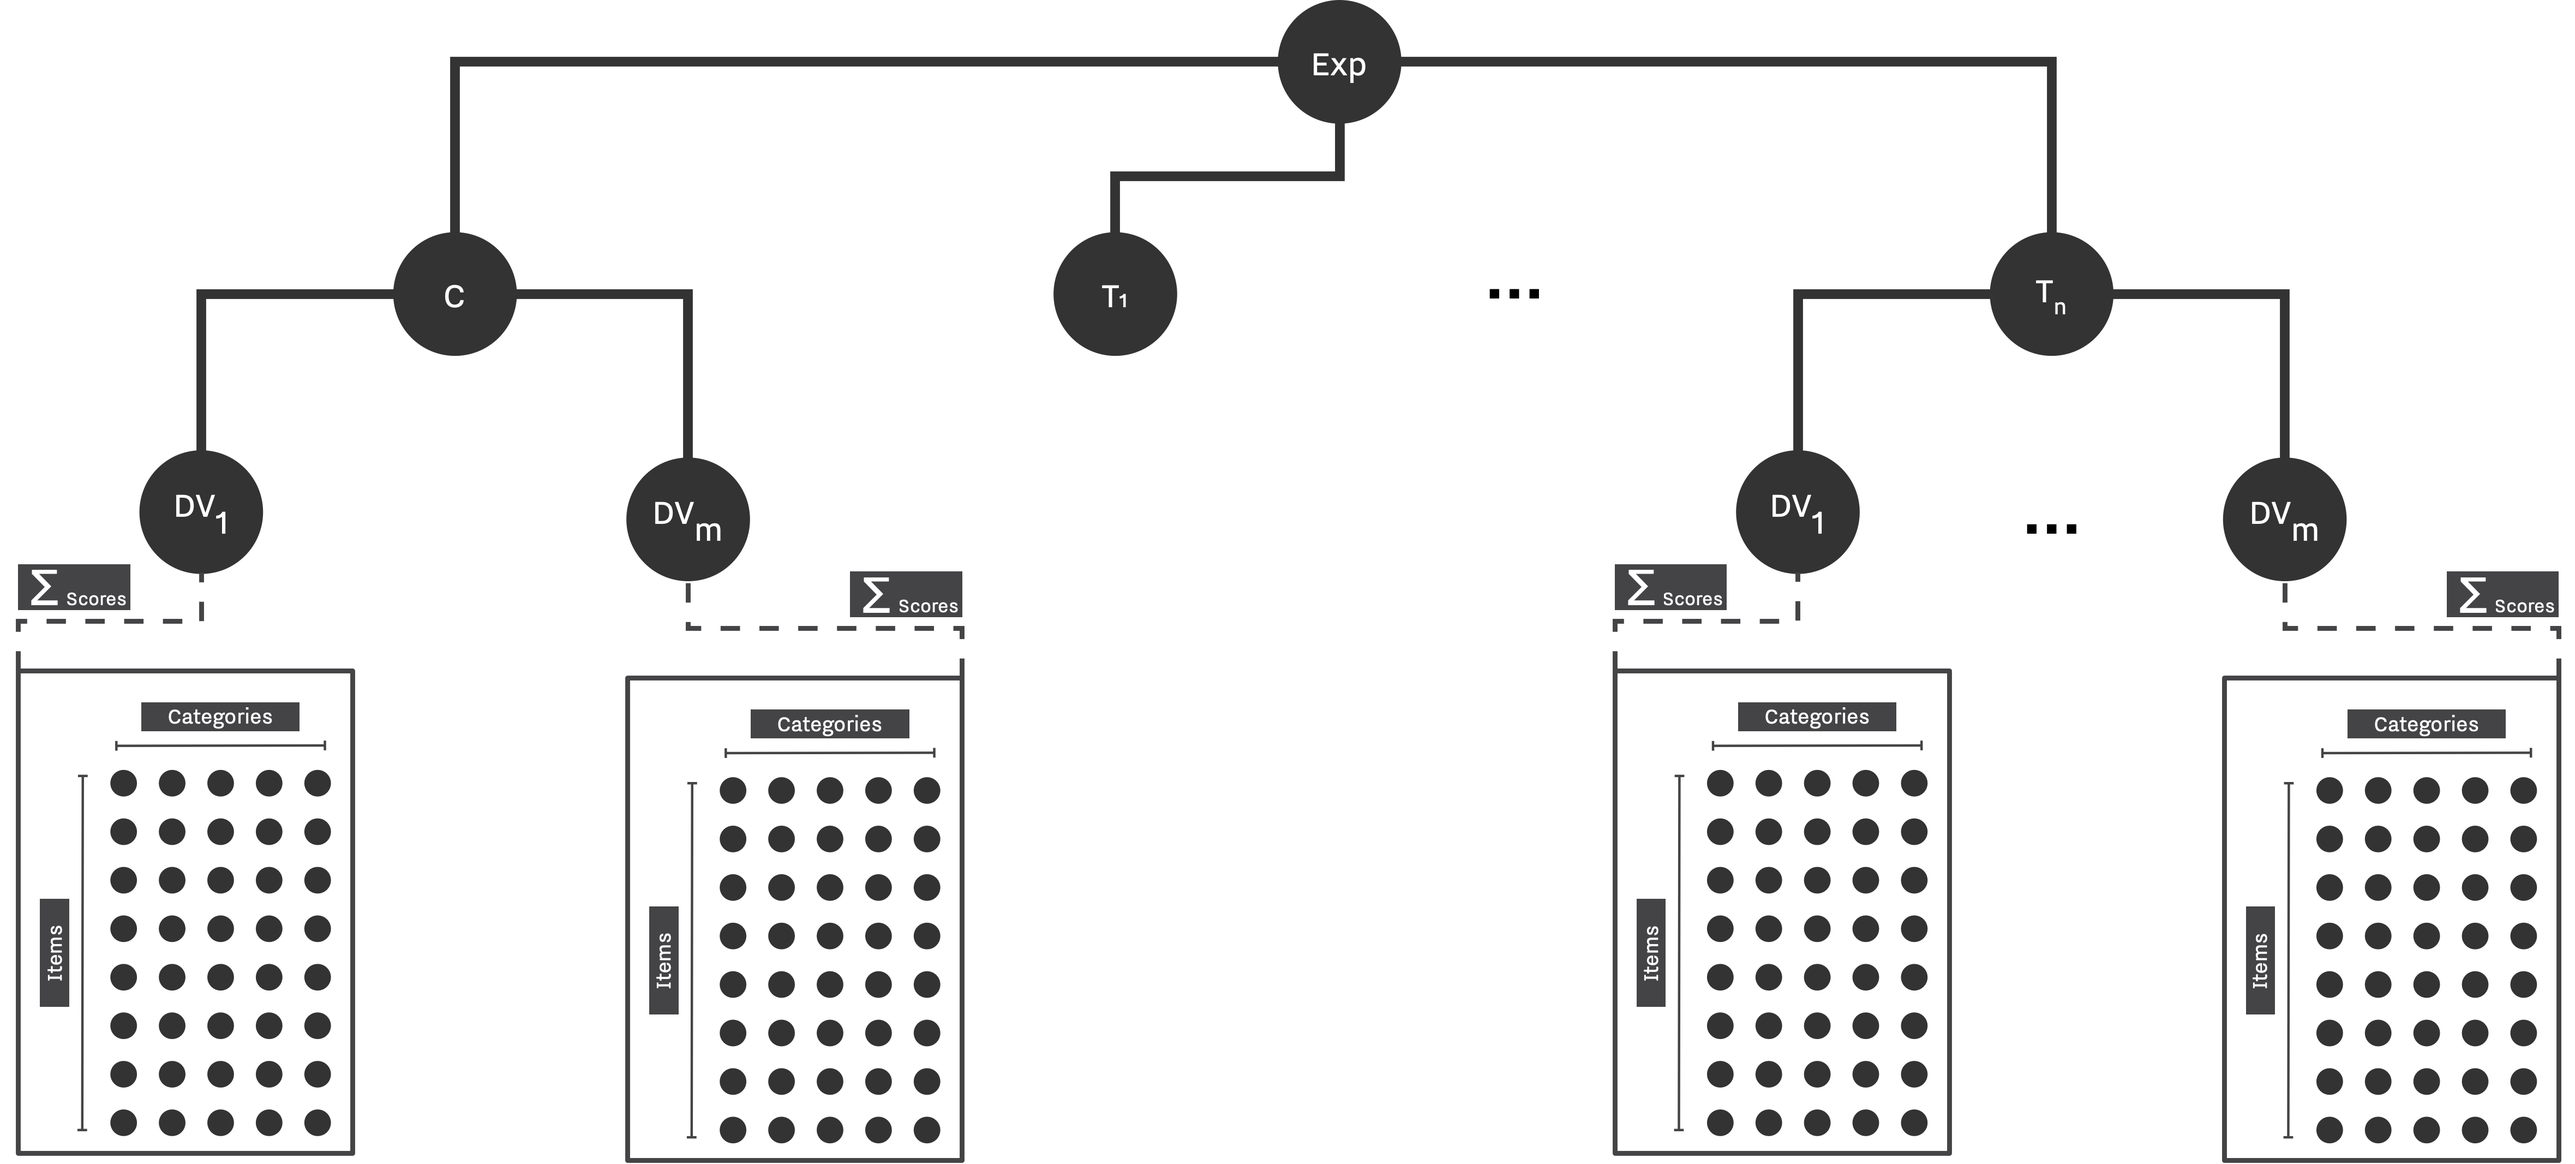
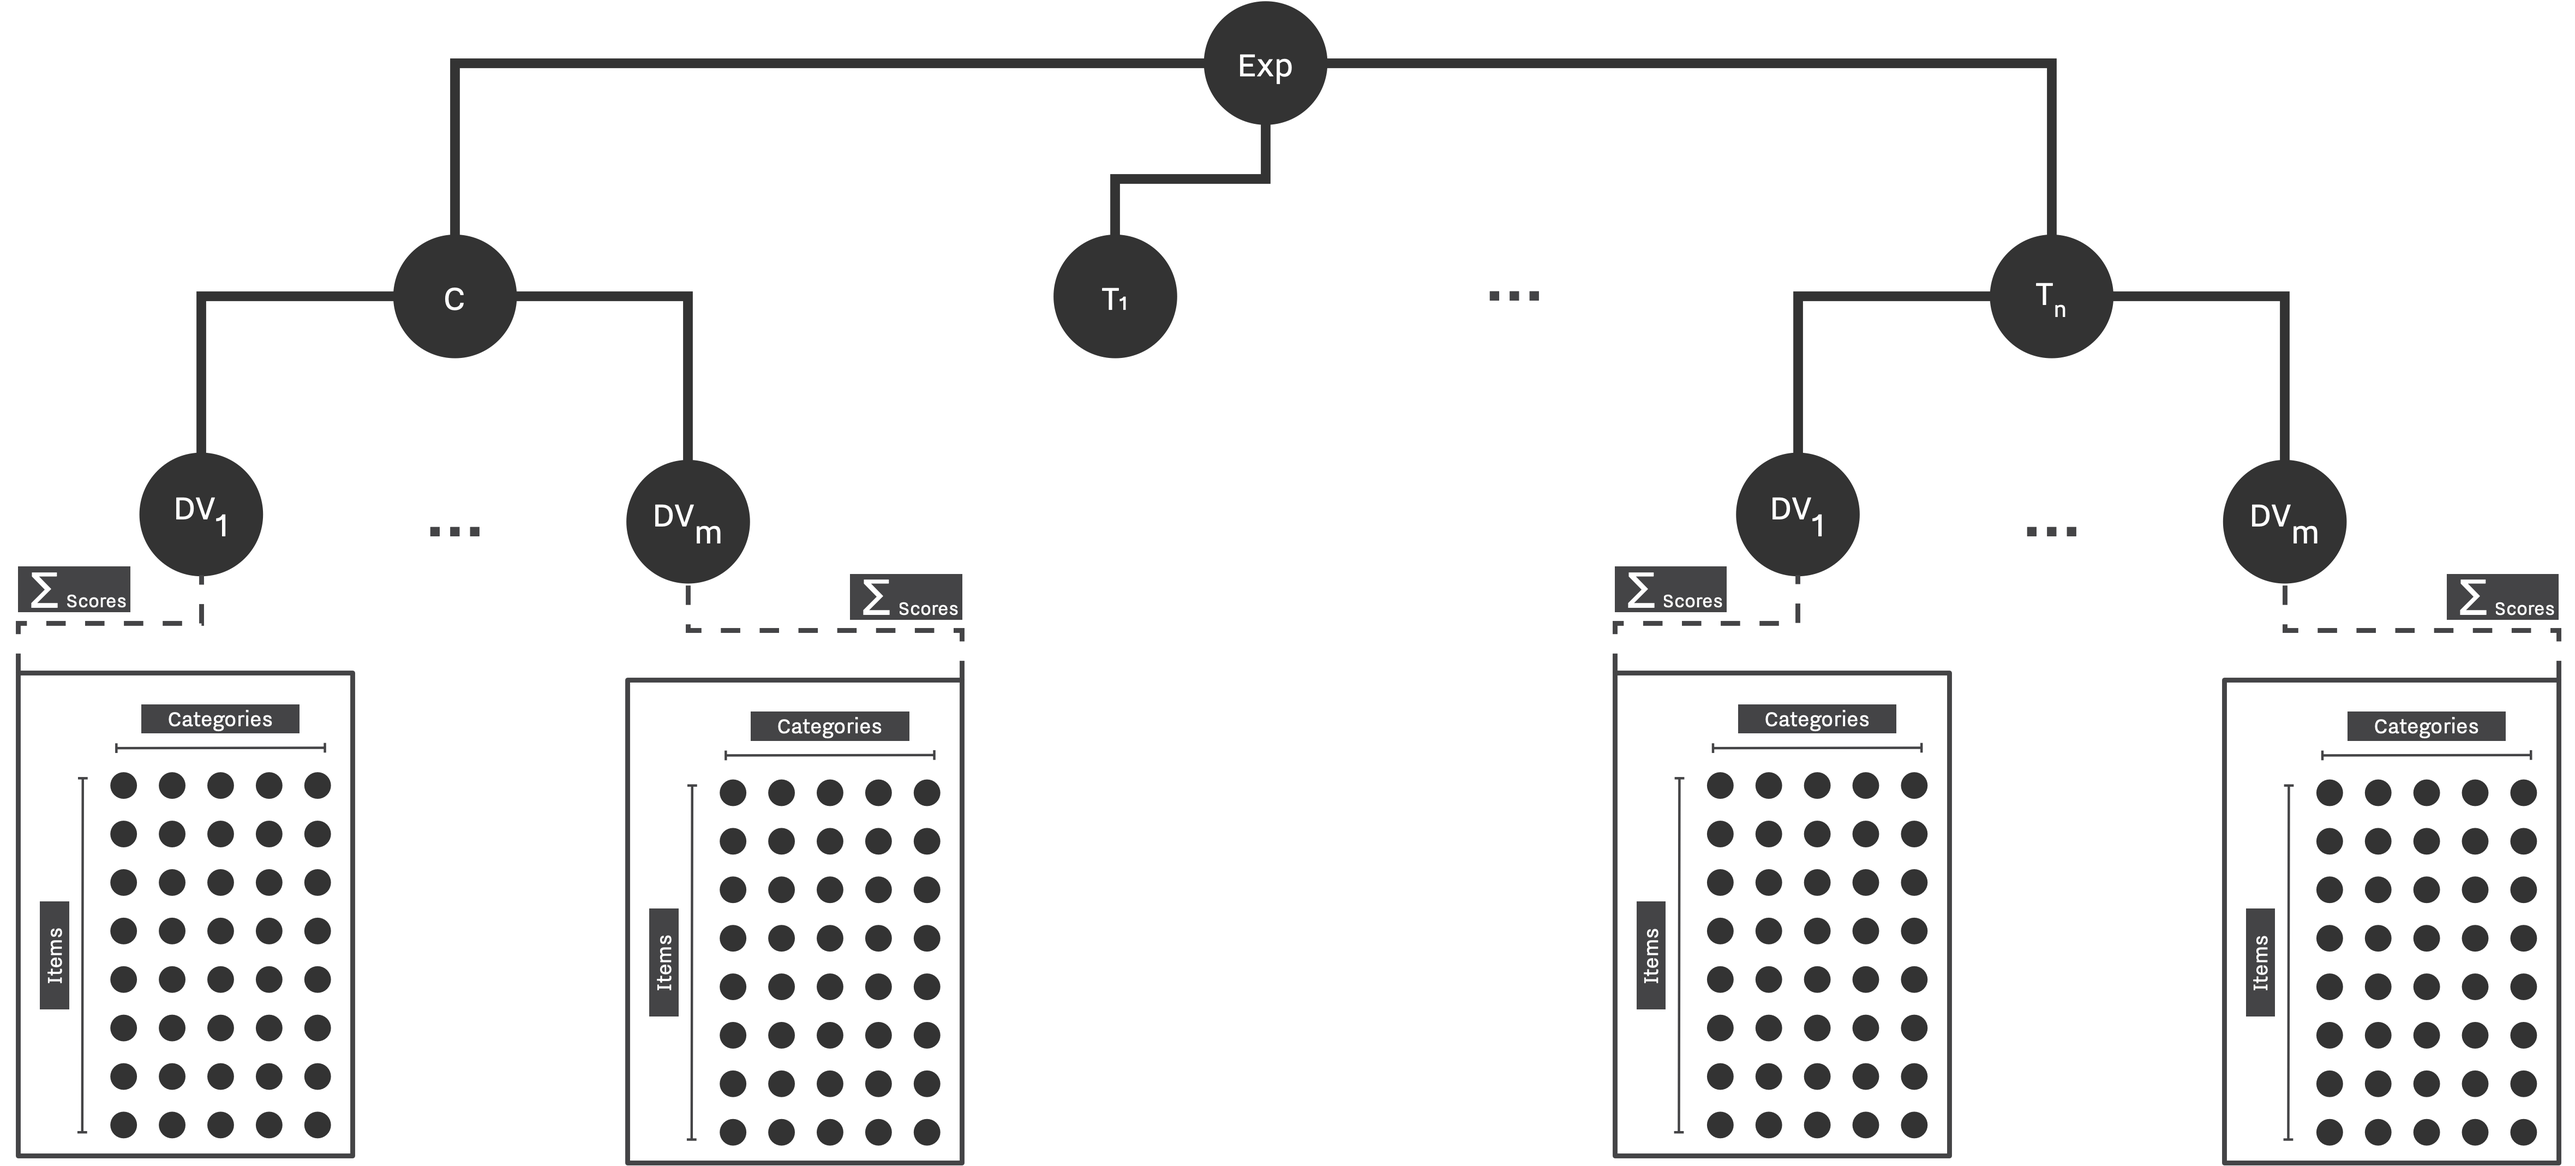
updating a few figures, and adding info for Falsifying and Fabricating Data

diff --git a/docs/custom.css b/docs/custom.css
@@ -38,9 +38,9 @@ blockquote {
   font-size: 98%;
 }
 
-/*.md-typeset__table {
+.md-typeset__table {
   box-sizing: content-box;
-}*/
+}
 
 /*.md-typeset table:not([class]), .md-typeset__table {
   display: block;
@@ -96,8 +96,8 @@ blockquote {
 .md-typeset .experiment > .admonition-title::before,
 .md-typeset .experiment > summary::before {
   background-color: rgba(0, 122, 255, 1.00);
-  -webkit-mask-image: var(--md-admonition-icon--researcher);
-          mask-image: var(--md-admonition-icon--researcher);
+  -webkit-mask-image: var(--md-admonition-icon--datastrategy);
+          mask-image: var(--md-admonition-icon--datastrategy);
 }
 
 

diff --git a/docs/data-strategies.md b/docs/data-strategies.md
@@ -5,10 +5,10 @@
 ## Study Design
 
 <picture>
-  <img src="/figures/experiment-design.png" width="50%" align="right">
+  <img src="/figures/Data_Strategy_Linear_Model.png" width="50%" align="right">
 </picture>
 
-Parameters of Data Strategy are intertwined with experiment design parameters. Before defining the model, we need to specify the structure of our design, number of observations in each group, and [number of replications](/decision-strategies.md#post-qrp-decision-and-replication-stage) if applicable. Study design is being detemrined by setting the number of treatment conditions, *n* (`n_conditions`) and the number of dependent variables in each condition, *d* (`n_dep_vars`). After specifying our design, each group is being populated by `n_obs` observations based on the given model, specified in `data_strategy`. 
+Parameters of Data Strategy are intertwined with experiment design parameters. Before defining the model, we need to specify the structure of our design, number of observations in each group, and [number of replications](/decision-strategies.md#post-qrp-decision-and-replication-stage) if applicable. Study design is being detemrined by setting the number of treatment conditions, *n* (`n_conditions`) and the number of dependent variables in each condition, *m* (`n_dep_vars`). After specifying our design, each group is being populated by `n_obs` observations based on the given model, specified in `data_strategy`. 
 
 ```json hl_lines="3 4 5 6"
 {
@@ -42,7 +42,7 @@ We can configure the type and specifications of the model using `data_strategy` 
 
 ## Linear Model
 
-In the case of Linear Model, SAM models $\bar{y} = \bar{x} + \bar{\epsilon}$ where $\bar{x}$ and $\bar{\epsilon} are  vectors of values drawn either from a single multivariate distribution, or a set of univariate distributions. Two following configurations showcase variants of this setup. As it is shown, it is possible to mix and match uni- and multi-variate distributions.
+In the case of Linear Model, SAM models $\bar{y} = \bar{x} + \bar{\epsilon}$ where $\bar{x}$ and $\bar{\epsilon}$ are  vectors of values drawn either from a single multivariate distribution, or a set of univariate distributions. Two following configurations showcase variants of this setup. As it is shown, it is possible to mix and match uni- and multi-variate distributions.
 
 SAM supports a wide range of statistical [distributions](/distributions.md). While most distirbutions accept a set of predefined parameters, multivariate normal distribution offers some helper parameters for easier configuration, Table 1. While it is possible to fully configure mean, *μ*, and the convriance matrix, *Σ*; we are able to set fixed values for covariance and standard deviations and guide SAM to generate an appropriate covariance matrix.
 
@@ -62,13 +62,13 @@ SAM supports a wide range of statistical [distributions](/distributions.md). Whi
     "data_strategy": {
         "name": "LinearModel",
         "measurements": {
-            "dist": "multivariate_normal_distribution",
+            "dist": "mvnorm_distribution",
             "means": [0, 0.2],
             "covs": 0.0,
             "stddevs": 1.0
         },
         "errors": {
-            "dist": "multivariate_normal_distribution",
+            "dist": "mvnorm_distribution",
             "means": [0, 0],
             "covs": 0.0,
             "stddevs": 1.0
@@ -86,7 +86,7 @@ SAM supports a wide range of statistical [distributions](/distributions.md). Whi
         "n_obs": 25,
         "name": "LinearModel",
         "measurements": {
-            "dist": "multivariate_normal_distribution",
+            "dist": "mvnorm_distribution",
             "means": [0, 0.2],
             "covs": 0.0,
             "stddevs": 1.0

diff --git a/docs/selection-strategies.md b/docs/selection-strategies.md
@@ -28,7 +28,7 @@ As the name suggest, significant selection strategy incorporates the concept of 
 		"selection_strategy": {
 			"name": "SignificantSelection",
 			"alpha": ɑ,
-			"journal_pub_bias": Pʙ,
+			"pub_bias": Pb,
 			"side": 0
 		}
 	}
@@ -37,19 +37,19 @@ As the name suggest, significant selection strategy incorporates the concept of 
 
 ## Policy Based Selection
 
-As the name suggest, policy based selection strategies are using [policy chains](/decision-strategies.md#policy-chain) to evalute the "quality" of a submission, and therefore come to their verdict.
+As the name suggest, policy based selection strategies are using [policy chains](/decision-strategies.md#policy-chain) to evalute the "quality" of a submission, and therefore come to their verdict. In addition to the given criteria, we can adjust the *acceptance rate*, `pub_chance`, and the *publication bias rate*, `pub_bias`. Journal first evaluates whether the `selection_policy` can be satisfied; then, a random draw decides whether the publication is lucky enough to be accepted, and finally, odds of being published will be evaluted against the publication bias rate.
+
+Notice that the flexibilty of the selection policy and availability of publication bias rate will allows us to construct Journals that are biased toward different criteria, e.g., positive effects, large studies, etc.
 
 
 !!! journal "Policy Based Selection"
 	```json
 	"journal_parameters": {
 		"selection_strategy": {
-			"name": "SignificantSelection",
-			"journal_pub_bias": Pʙ,
-			"acceptance_policy": ["effect > 0", "sig"]
+			"name": "PolicyBasedSelection",
+			"selection_policy_defs": ["effect > 0", "sig"],
+			"pub_chance": Pc,
+			"pub_bias": Pb
 		}
 	}
 	```
-
-
-!!! journal "Policy Based Selection"

diff --git a/docs/hacking-strategies/falsifying-data.md b/docs/hacking-strategies/falsifying-data.md
@@ -1,1 +1,13 @@
 # Falsifying Data
+
+Falsifying data is the act of deliberately modifying, adding, or removing measurements in order to steer the primary outcome of a research toward a certain satisfactory conclusion. While this process can take many different forms, as mentioned, the main incentive is to contaminate the dataset in order to legitimize a certain conclusion or decision. [cite, cite, cite]
+
+Here we offer a customizable algorithm to achieve a few variations of data falsification. We focused on three primary form of data falsification: perturbation, swapping, and switching data.
+
+- In **permutation approach**, Researcher selects a set of value from a specific group, and adds a certain level of noise to each. 
+- In **swapping approach**, Researcher selects a set of treatment groups, or dependent variables, and swap certain number of datapoint between them.
+- In **switching approach**, Researcher selects a certain number of datapoint and move them to an another group.
+
+Every approach can be customized even further to achieve a certain behavior.
+
+\bibliography

diff --git a/docs/hacking-strategies/fabricating-data.md b/docs/hacking-strategies/fabricating-data.md
@@ -1,1 +1,13 @@
 # Fabricating Data
+
+Fabricating data is the process of producing imaginary data to support a certain hypothesis [cite, cite]. In this case, Researcher comes up with datapoint and inject them into actual measurements in order to achieve or legitimize a certain conclusion. Data fabrication is neither defensible nor prevalent [cite, cite]; however unfortunately it can be deployed by researchers.
+
+Here we focus on two main known/speculated approaches: *data generation*, *data duplication*. 
+
+- **Data Generation** is the process of generating completely new datapoint with the goal of steering test statistics or any other metrics toward a satisfactory conclusion.
+- **Data Duplication** is the process of duplicating certain datapoint in a selected group, in order to weight the group in certain direction.
+
+Like many other hacking strategies, a range of options can be used to customize the behavior of Researcher during this hacking strategy.
+
+
+\bibliography

diff --git a/docs/hacking-strategies/selective-reporting.md b/docs/hacking-strategies/selective-reporting.md
@@ -43,9 +43,18 @@ Basically, Researcher can adjust his selection during the study. Keeping in mind
 
 ```json
 {
-	“initial_selection_policies”: [[“pre-reg”, “sig”], [“min(pvalue)”]],
-	“between_hacks_selection_policies”: [[“pre-reg”, “sig”], [“effect > 0”, “min(pvalue)”], [“effect < 0”, “max(pvalue)”],
-	“between_replications_selection_policies”:[[“pre-reg”, “sig”], [“effect > 0”, “min(pvalue)”], [“sig”, “min(pvalue)”]]
+	"initial_selection_policies": [
+        ["pre-reg", "sig"], ["min(pvalue)"]
+    ],
+	"between_hacks_selection_policies": [
+        ["pre-reg", "sig"],
+        ["effect > 0", "min(pvalue)"],
+        ["effect < 0", "max(pvalue)"],
+    ],
+	"between_replications_selection_policies": [
+        ["pre-reg", "sig"],
+        ["effect > 0", "min(pvalue)"],
+        ["sig", "min(pvalue)"]]
 }
 ```
 

diff --git a/docs/examples/index.md b/docs/examples/index.md
@@ -2,8 +2,9 @@
 title: Introduction
 ---
 
-# Designing Your Simulation
+# Designing Your Own Simulation
 
 In this section, we present the process of reproducing several published simulation studies using SAM. We have tried to reproduce every study as close as possible, and rigorously use them as our extended testing and benchmarking steps. 
 
 Each example explains in detail how one translates different aspects of a simulation study, eg., data strategy, research workflow, etc., to SAM's configurations. We have tried to select a wide range of simulations and configurations to showcase the extend of SAM's flexibility and reach.
+
